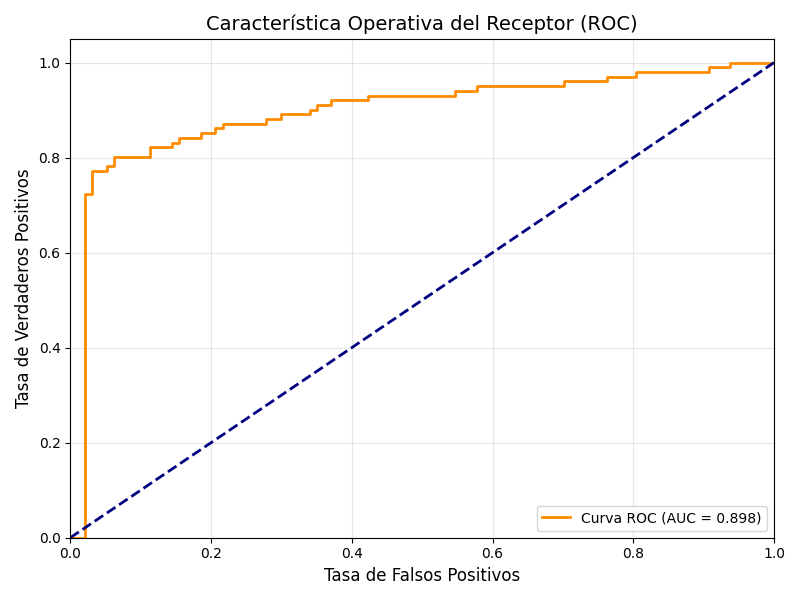
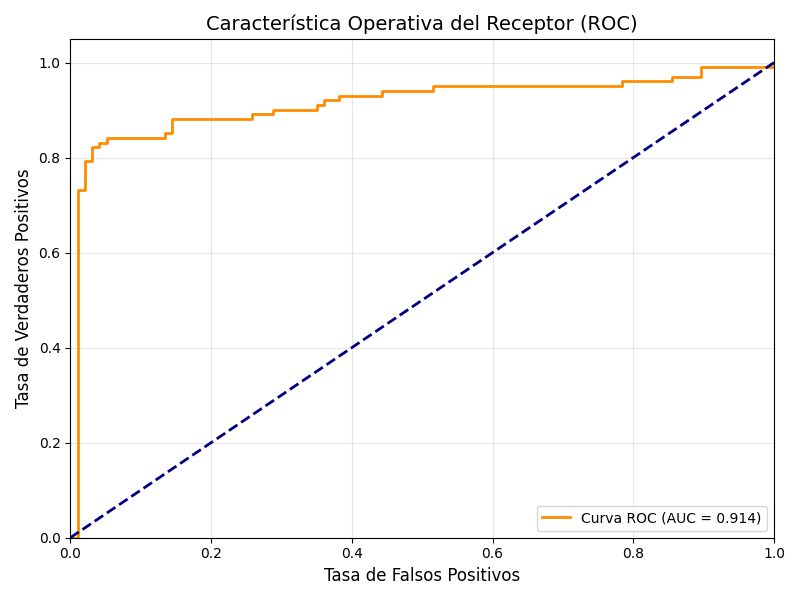
Agrega funciones para graficar ejemplos y filtrar diagramas vacíos en el modelo TDA

diff --git a/scripts/06_best_model.py b/scripts/06_best_model.py
@@ -17,7 +17,7 @@ from sklearn.metrics import (
     confusion_matrix, 
     roc_curve
 )
-from persim import wasserstein
+from persim import wasserstein, plot_diagrams
 
 # Agregar directorio padre al path para importar módulos src
 sys.path.insert(0, str(Path(__file__).parent.parent))
@@ -76,6 +76,92 @@ def plot_roc_curve(y_true, y_proba, auc_score, save_path):
     plt.close()
     print(f"✓ Curva ROC guardada en {save_path}")
 
+
+def plot_examples_grid(X, y, y_pred, y_proba, samples_per_class, model, model_params, save_path, seed=None, min_h0_points=10):
+    """Graficar diagramas de persistencia por clase en una grilla 2xN.
+    Selecciona señales con H0 suficiente y muestrea de forma estratificada por probabilidad: baja/medio/alta P(Terr).
+    """
+    classes = [0, 1]
+    fig, axes = plt.subplots(2, samples_per_class, figsize=(3.5 * samples_per_class, 7), sharex=False)
+
+    # Si samples_per_class == 1, axes no es 2D; normalizar
+    if samples_per_class == 1:
+        axes = np.array([axes]).reshape(2, 1)
+
+    # Use seeded random sampling for reproducibility
+    rng = np.random.default_rng(seed)
+
+    for row, cls in enumerate(classes):
+        idx_cls = np.where(y == cls)[0]
+        
+        # Filtrar índices con diagramas H0 válidos
+        valid_idx_cls = []
+        for idx in idx_cls:
+            sig = X[idx]
+            try:
+                dgms = model.transform(sig)
+                dgm_h0 = dgms[0]
+                dgm_h0_finite = dgm_h0[dgm_h0[:, 1] != np.inf] if len(dgm_h0) > 0 else dgm_h0
+                if len(dgm_h0_finite) >= min_h0_points:
+                    valid_idx_cls.append(idx)
+            except:
+                continue
+        
+        # Estratificar por probabilidad P(terr) en bins: bajo, medio, alto
+        chosen = []
+        if len(valid_idx_cls) > 0:
+            probs_cls1 = y_proba[valid_idx_cls]
+            low_bin = [idx for idx, p in zip(valid_idx_cls, probs_cls1) if p <= 0.33]
+            mid_bin = [idx for idx, p in zip(valid_idx_cls, probs_cls1) if 0.33 < p <= 0.67]
+            high_bin = [idx for idx, p in zip(valid_idx_cls, probs_cls1) if p > 0.67]
+
+            # Tomar uno por bin si existe
+            for bin_idxs in (low_bin, mid_bin, high_bin):
+                if bin_idxs:
+                    chosen.append(rng.choice(bin_idxs))
+
+            # Rellenar restantes (si faltan) de los válidos restantes
+            remaining_slots = samples_per_class - len(chosen)
+            if remaining_slots > 0:
+                remaining_pool = [idx for idx in valid_idx_cls if idx not in chosen]
+                if len(remaining_pool) > 0:
+                    if len(remaining_pool) > remaining_slots:
+                        extra = rng.choice(remaining_pool, size=remaining_slots, replace=False)
+                        chosen.extend(list(extra))
+                    else:
+                        chosen.extend(remaining_pool)
+
+        for col in range(samples_per_class):
+            ax = axes[row, col]
+            if col < len(chosen):
+                idx = chosen[col]
+                sig = X[idx]
+                # Compute persistence diagrams using model's transform
+                dgms = model.transform(sig)
+                # Plot persistence diagrams
+                plot_diagrams(dgms, ax=ax, legend=False)
+                
+                # Get prediction info
+                true_label = 'Ruido' if cls == 0 else 'Terremoto'
+                prob_noise = 1 - y_proba[idx]  # P(class 0)
+                prob_earthquake = y_proba[idx]  # P(class 1)
+                
+                # Create clearer title
+                title = f"#{idx}: {true_label}\n"
+                title += f"P(Ruido)={prob_noise:.2f} | P(Terr)={prob_earthquake:.2f}"
+                ax.set_title(title, fontsize=8.5)
+            else:
+                ax.axis('off')
+
+            if col == 0:
+                label_name = 'Ruido (Clase 0)' if cls == 0 else 'Terremoto (Clase 1)'
+                ax.set_ylabel(label_name, fontsize=10, fontweight='bold')
+
+    fig.tight_layout()
+    fig.savefig(save_path, dpi=150)
+    plt.close(fig)
+    print(f"✓ Ejemplos guardados en {save_path}")
+
 def analyze_errors(X_test, y_test, y_pred, y_proba):
     """Realizar análisis de muestras mal clasificadas."""
     # Identificar índices
@@ -111,6 +197,73 @@ def analyze_errors(X_test, y_test, y_pred, y_proba):
             prob = fn_probs[idx]
             sig = X_test[orig_idx]
             print(f"  - Índice {orig_idx}: Prob(Terremoto)={prob:.4f}, Media de Señal={np.mean(sig):.2e}, Desv={np.std(sig):.2e}")
+
+def filter_empty_diagrams(X, y, model_params, min_h1_points=15, verbose=True):
+    """Filtrar señales que producen diagramas H1 vacíos o con muy pocos puntos.
+    
+    Args:
+        X: Lista de señales
+        y: Array de etiquetas
+        model_params: Diccionario con parámetros del modelo
+        min_h1_points: Número mínimo de puntos requeridos en H1 (por defecto 3)
+        verbose: Mostrar información de filtrado
+    
+    Returns:
+        tuple: (X_filtered, y_filtered, num_removed)
+    """
+    valid_indices = []
+    
+    for idx, signal in enumerate(X):
+        try:
+            # Computar embedding de Takens
+            embedding = ut.takens_embedding(
+                signal,
+                dim=model_params['dim'],
+                tau=model_params['tau']
+            )
+            
+            # Limitar puntos si es necesario
+            if len(embedding) > model_params['max_points']:
+                step = len(embedding) // model_params['max_points']
+                embedding = embedding[::step][:model_params['max_points']]
+            
+            # Computar diagramas de persistencia
+            dgms = ut.compute_persistence(
+                embedding,
+                maxdim=1,
+                thresh=model_params['thresh']
+            )
+            
+            # Verificar si H1 tiene suficientes puntos
+            dgm_h1 = dgms[1]
+            dgm_h1_finite = dgm_h1[dgm_h1[:, 1] != np.inf] if len(dgm_h1) > 0 else dgm_h1
+            
+            # Solo mantener señales con al menos min_h1_points puntos en H1
+            if len(dgm_h1_finite) >= min_h1_points:
+                valid_indices.append(idx)
+        except Exception as e:
+            # Si hay error, excluir la señal
+            if verbose:
+                print(f"Error procesando señal {idx}: {e}")
+            continue
+    
+    num_removed = len(X) - len(valid_indices)
+    
+    if num_removed > 0 and verbose:
+        removed_by_label = {}
+        for i, (signal, label) in enumerate(zip(X, y)):
+            if i not in valid_indices:
+                removed_by_label[label] = removed_by_label.get(label, 0) + 1
+        
+        print(f"\n⚠ ADVERTENCIA: {num_removed} señal(es) removida(s) (H1 con menos de {min_h1_points} puntos)")
+        for label, count in removed_by_label.items():
+            label_name = 'Terremoto' if label == 1 else 'Ruido'
+            print(f"  - {label_name} (etiqueta {label}): {count} señal(es)")
+    
+    X_filtered = [X[i] for i in valid_indices]
+    y_filtered = y[valid_indices]
+    
+    return X_filtered, y_filtered, num_removed
 
 def main():
     """Flujo de ejecución principal."""
@@ -195,6 +348,18 @@ def main():
     
     plot_confusion_matrix(y_test, y_pred, RESULTS_DIR / "confusion_matrix.png")
     plot_roc_curve(y_test, y_proba, auc, RESULTS_DIR / "roc_curve.png")
+    plot_examples_grid(
+        X_test,
+        y_test,
+        y_pred,
+        y_proba,
+        samples_per_class=3,
+        model=model,
+        model_params=BEST_PARAMS,
+        save_path=RESULTS_DIR / "examples_grid.png",
+        seed=42,  # Different seed for varied examples
+        min_h0_points=10,
+    )
     
     # 7. Análisis de Errores
     analyze_errors(X_test, y_test, y_pred, y_proba)
